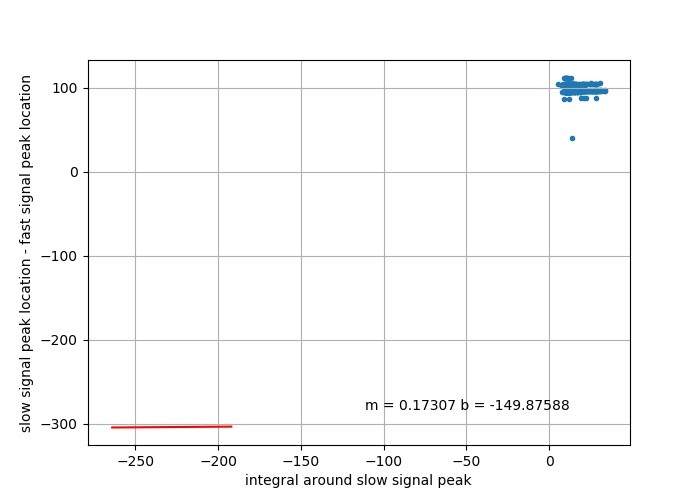
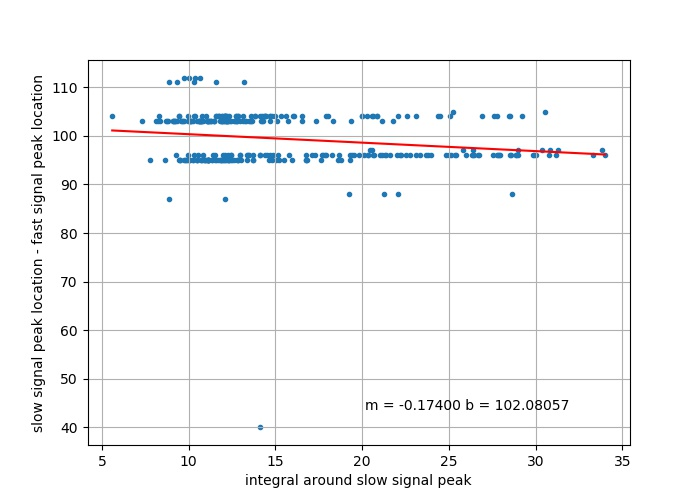
more bugfixes

diff --git a/software/correlator.py b/software/correlator.py
@@ -220,7 +220,7 @@ for i in monosgnl:
 	j += 1
 
 plt.grid()
-plt.text(0.7, 0.1,'m = ' + '%.5f' % np.polyfit(newfastloc, newslowloc, 1)[0] + ' b = ' + '%.5f' % np.polyfit(newfastloc, newslowloc, 1)[1],
+plt.text(0.7, 0.1,'m = ' + '%.5f' % np.polyfit(newslowloc, newfastloc, 1)[0] + ' b = ' + '%.5f' % np.polyfit(newslowloc, newfastloc, 1)[1],
      horizontalalignment='center',
      verticalalignment='center',
      transform = ax.transAxes)
@@ -228,9 +228,11 @@ plt.text(0.7, 0.1,'m = ' + '%.5f' % np.polyfit(newfastloc, newslowloc, 1)[0] + '
 plt.savefig('peakloc_lobf.jpg')
 plt.close()
 
+locdiff = newslowloc - newfastloc
+
 plt.figure(figsize=(7,5))
-plt.scatter(newslowint, newslowloc - newfastloc, marker='.')
-plt.plot(np.unique(newslowloc), np.poly1d(np.polyfit(newslowloc, newfastloc, 1))(np.unique(newslowloc)), 'r')
+plt.scatter(newslowint, locdiff, marker='.')
+plt.plot(np.unique(newslowint), np.poly1d(np.polyfit(newslowint, locdiff, 1))(np.unique(newslowint)), 'r')
 ax = plt.gca()
 ax.set_xlabel('integral around slow signal peak')
 ax.set_ylabel('slow signal peak location - fast signal peak location')
@@ -241,7 +243,7 @@ ax.set_ylabel('slow signal peak location - fast signal peak location')
 #	j += 1
 
 plt.grid()
-plt.text(0.7, 0.1,'m = ' + '%.5f' % np.polyfit(fastloc, slowloc, 1)[0] + ' b = ' + '%.5f' % np.polyfit(fastloc, slowloc, 1)[1],
+plt.text(0.7, 0.1,'m = ' + '%.5f' % np.polyfit(newslowint, locdiff, 1)[0] + ' b = ' + '%.5f' % np.polyfit(newslowint, locdiff, 1)[1],
      horizontalalignment='center',
      verticalalignment='center',
      transform = ax.transAxes)
